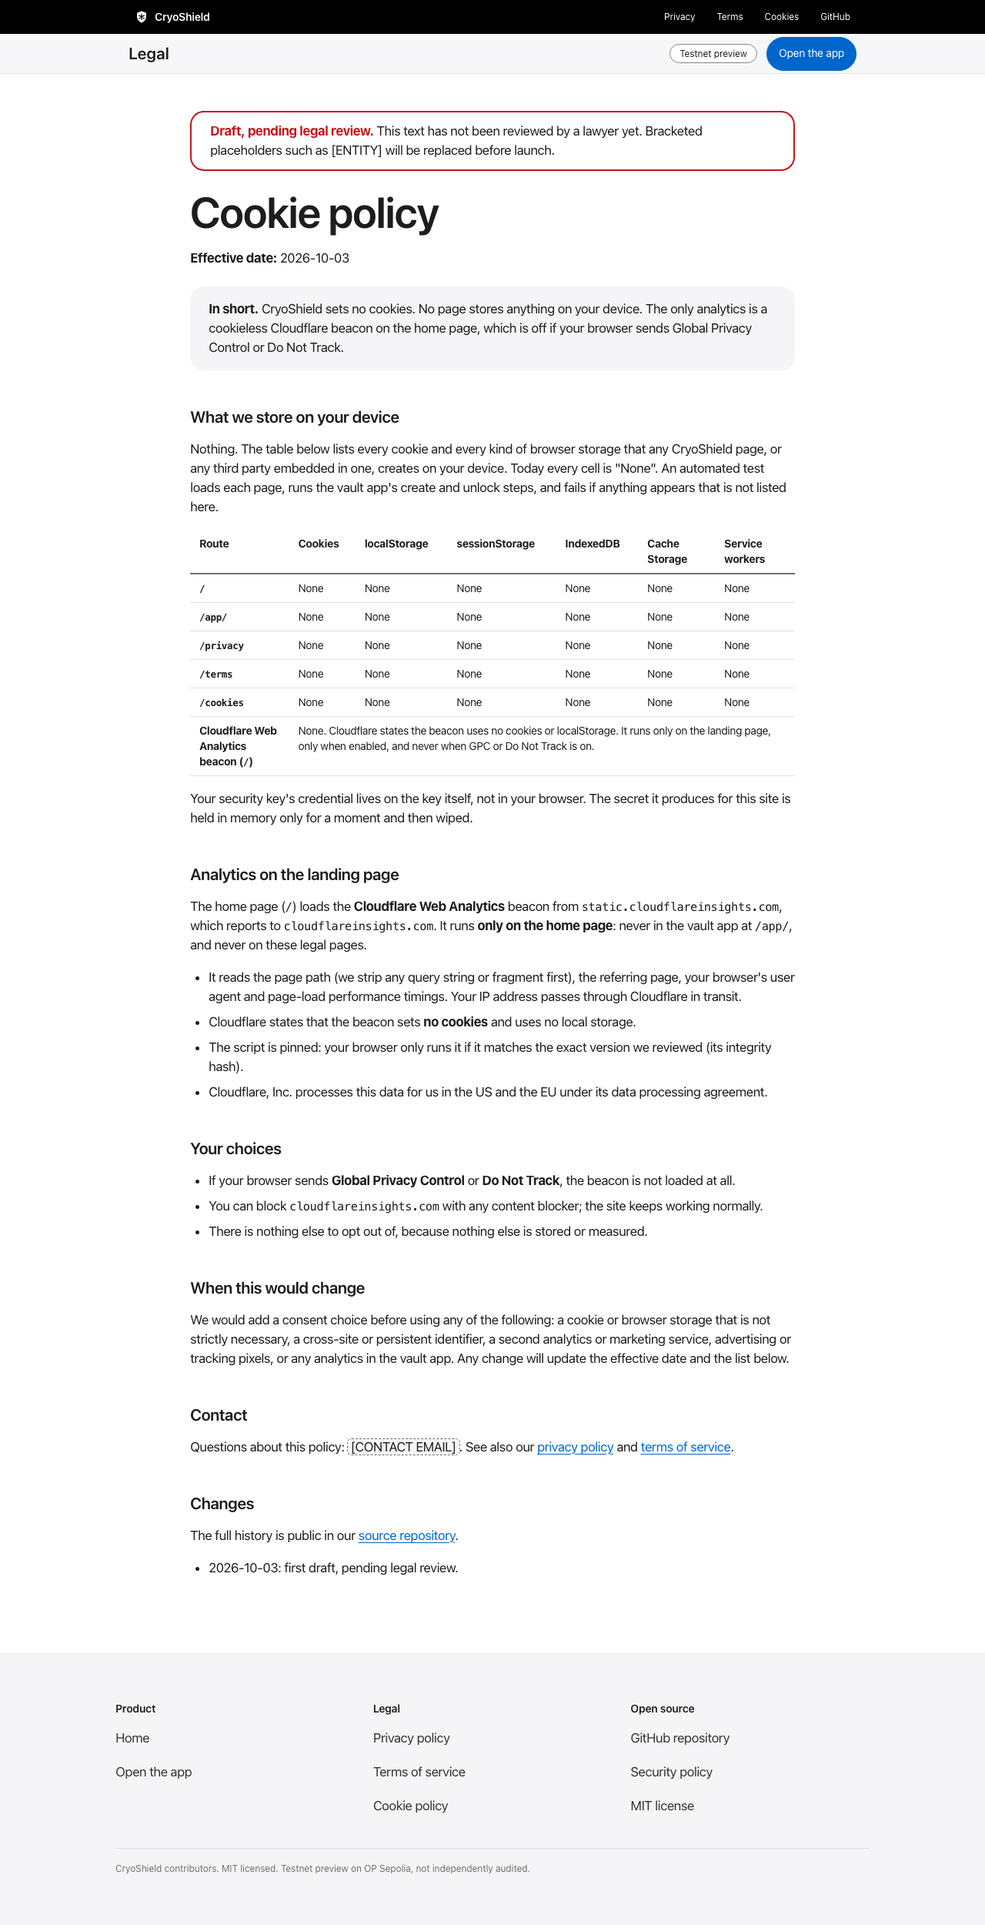
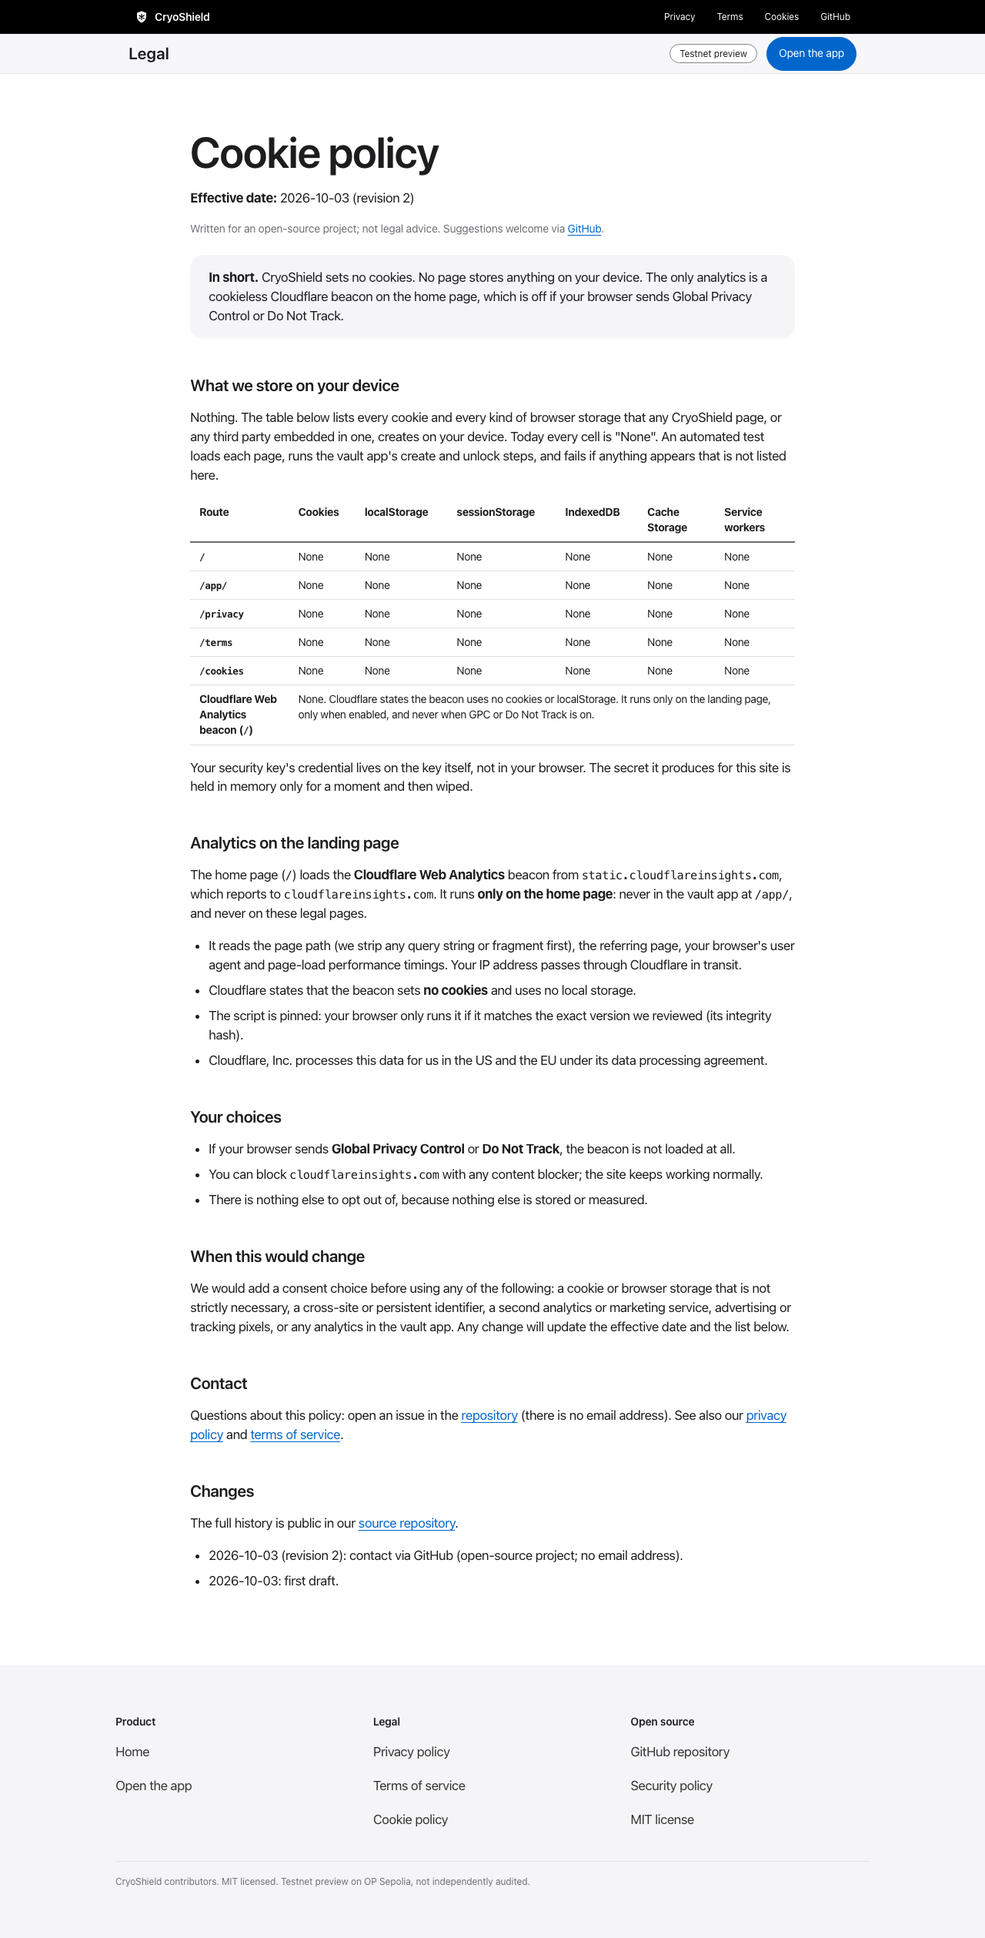
docs(legal): open-source project defaults for the legal pages and security contact
- operator: 'CryoShield, an open-source project maintained by its
  contributors'; the maintainers are controller/Data Fiduciary only for
  the GitHub correspondence they receive; Grievance Officer = the project
  maintainer via a private advisory (24 h / 15 days)
- GitHub-only contact: privacy-request issue form (warns never to post
  secrets) or private advisory; security.txt and SECURITY.md point to
  private vulnerability reporting; every @cryoshield.app address removed
- terms mirror the MIT warranty disclaimer and liability exclusion
- quiet 'not legal advice' note under each effective date replaces the
  draft banner; placeholder styling removed; same-day revision marker
  accepted by the effective-date check
- verify-build fails on any bracketed placeholder or @cryoshield.app
  address in shipped HTML/text; tests updated; screenshots regenerated

diff --git a/apps/web/test/legal/pages.test.ts b/apps/web/test/legal/pages.test.ts
@@ -70,14 +70,49 @@ describe('legal pages', () => {
     for (const s of ['test network', 'not been independently audited', 'nobody', 'cannot be removed', 'paused, limited or withdrawn', '18 or over', 'sanctions', 'MIT license', 'Limitation of liability', 'Governing law']) expect(t, s).toMatch(new RegExp(s, 'i'));
   });
 
-  it('every legal page shows the draft banner first and keeps the placeholders', () => {
+  it('every legal page shows the not-legal-advice note right under the effective date, and no draft banner (adopt-oss 1.2)', () => {
     for (const p of LEGAL) {
       const d = page(p);
-      const art = d.querySelector('main article')!;
-      expect(art.firstElementChild?.classList.contains('draft-banner'), p).toBe(true);
-      expect(art.firstElementChild?.textContent).toMatch(/Draft, pending legal review/);
-      expect(d.querySelectorAll('mark.placeholder').length, p).toBeGreaterThan(0);
+      const date = [...d.querySelectorAll('main article p')].find((x) => /Effective date:/.test(x.textContent ?? ''))!;
+      const note = date.nextElementSibling!;
+      expect(note.classList.contains('legal-note'), p).toBe(true);
+      expect(note.textContent?.replace(/\s+/g, ' ').trim(), p).toBe('Written for an open-source project; not legal advice. Suggestions welcome via GitHub.');
+      const html = readFileSync(join(out, p), 'utf8');
+      expect(html, p).not.toMatch(/Draft, pending legal review|draft-banner|mark class="placeholder"/);
+      expect(html, p).not.toMatch(/\[[A-Z][A-Z ]{2,}\]|@cryoshield\.app/);
     }
+  });
+
+  it('/privacy and /terms name the open-source operator and no company or registered address', () => {
+    for (const p of ['privacy/index.html', 'terms/index.html']) {
+      const d = page(p);
+      const t = d.body.textContent!.replace(/\s+/g, ' ');
+      expect(t, p).toContain('CryoShield, an open-source project maintained by its contributors (github.com/prix0007/cryoshield)');
+      expect(t, p).not.toMatch(/registered address|registered office/i);
+      expect([...d.querySelectorAll('main a')].map((a) => a.getAttribute('href')), p).toContain('https://github.com/prix0007/cryoshield');
+    }
+    expect(page('privacy/index.html').body.textContent!.replace(/\s+/g, ' ')).toMatch(/maintainers act as the data controller .*only for the correspondence/i);
+  });
+
+  it('/privacy routes requests to GitHub (privacy-request issue or private advisory) and names the maintainer as Grievance Officer', () => {
+    const d = page('privacy/index.html');
+    const hrefs = [...d.querySelectorAll('main a')].map((a) => a.getAttribute('href'));
+    expect(hrefs).toContain('https://github.com/prix0007/cryoshield/issues/new?template=privacy-request.yml');
+    expect(hrefs).toContain('https://github.com/prix0007/cryoshield/security/advisories/new');
+    const h = [...d.querySelectorAll('main h2')].find((x) => x.textContent?.trim() === 'Grievance Officer')!;
+    let text = '';
+    for (let n = h.nextElementSibling; n && n.tagName !== 'H2'; n = n.nextElementSibling) text += ' ' + n.textContent;
+    expect(text).toMatch(/the project maintainer/);
+    expect(text).toMatch(/24 hours/);
+    expect(text).toMatch(/15 days/);
+    expect(text).toMatch(/private security advisory/);
+  });
+
+  it('/terms mirrors the MIT licence disclaimer and keeps the honest framing', () => {
+    const t = page('terms/index.html').body.textContent!.replace(/\s+/g, ' ');
+    expect(t).toContain('WITHOUT WARRANTY OF ANY KIND');
+    expect(t).toContain('IN NO EVENT SHALL THE AUTHORS OR COPYRIGHT HOLDERS BE LIABLE');
+    for (const s of ['test network', 'not been independently audited', 'nobody', 'cannot be removed']) expect(t).toMatch(new RegExp(s, 'i'));
   });
 
   it('the landing page and every legal page link to /privacy, /terms and /cookies', () => {

diff --git a/apps/web/test/build/legal-checks.test.ts b/apps/web/test/build/legal-checks.test.ts
@@ -1,20 +1,23 @@
 // @vitest-environment node
-/** add-privacy-and-compliance 3.3 (draft banner vs placeholders) and 3.5 (effective date changes with content). */
+/** adopt-oss-project-defaults 1.1 (no placeholders/mailboxes) and add-privacy-and-compliance 3.5 (effective date). */
 import { execFileSync } from 'node:child_process';
 import { mkdirSync, mkdtempSync, writeFileSync } from 'node:fs';
 import { tmpdir } from 'node:os';
 import { join } from 'node:path';
 import { describe, expect, it } from 'vitest';
-import { checkLegalDraft, unlistedStorageApis } from '../../scripts/legal-check.mjs';
+import { checkNoPlaceholders, unlistedStorageApis } from '../../scripts/legal-check.mjs';
 import { readFileSync } from 'node:fs';
 
-describe('draft banner guard (3.3)', () => {
-  it('fails a page that still has a placeholder but no banner, naming page and token', () => {
-    expect(checkLegalDraft('<main><p>Operated by [ENTITY].</p></main>', 'privacy/index.html')).toEqual(['privacy/index.html: placeholder [ENTITY] without the "Draft, pending legal review" banner']);
+describe('no placeholders or project mailboxes in shipped files (adopt-oss-project-defaults 1.1)', () => {
+  it('fails on any bracketed ALL-CAPS placeholder or @cryoshield.app address, naming file and token', () => {
+    expect(checkNoPlaceholders('<p>Operated by [ENTITY], [REGISTERED ADDRESS].</p>', 'privacy/index.html')).toEqual([
+      'privacy/index.html: placeholder [ENTITY]',
+      'privacy/index.html: placeholder [REGISTERED ADDRESS]',
+    ]);
+    expect(checkNoPlaceholders('Contact: mailto:security@cryoshield.app', '.well-known/security.txt')).toEqual(['.well-known/security.txt: address security@cryoshield.app']);
   });
-  it('passes with the banner, or with no placeholders at all', () => {
-    expect(checkLegalDraft('<p class="draft-banner">Draft, pending legal review.</p><p>[CONTACT EMAIL]</p>', 'x')).toEqual([]);
-    expect(checkLegalDraft('<p>Operated by Example Pvt Ltd.</p>', 'x')).toEqual([]);
+  it('passes normal prose, links and code', () => {
+    expect(checkNoPlaceholders('<p>See [our docs](https://x) and <code>[a]</code>, the 18+ rule, [1] and [Note].</p>', 'x')).toEqual([]);
   });
 });
 
@@ -58,6 +61,12 @@ describe('effective date changes with content (3.5)', () => {
     r.write({ 'privacy.md': doc('2026-11-01', 'new text') });
     expect(run(r.d, r.base).ok).toBe(true);
   });
+  it('accepts a same-day revision marker as a date change (adopt-oss-project-defaults)', () => {
+    const r = repo({ 'privacy.md': doc('2026-10-03', 'old') });
+    r.write({ 'privacy.md': doc('2026-10-03 (revision 2)', 'new text') });
+    expect(run(r.d, r.base).ok).toBe(true);
+  });
+
   it('fails a new or edited page that has no effective date line', () => {
     const r = repo({ 'privacy.md': doc('2026-10-03', 'old') });
     r.write({ 'cookies.md': '# Cookies\n\nNo date.\n' });

diff --git a/apps/web/vite-plugins/legal.ts b/apps/web/vite-plugins/legal.ts
@@ -2,13 +2,14 @@
  * Legal pages (add-privacy-and-compliance D6, task 3.1/3.2): the source text lives in apps/web/legal/*.md (public
  * history); at build time it is rendered into static HTML shells (privacy/, terms/, cookies/). No JS, no third-party
  * resources. A deliberately small Markdown subset, so no new dependency: headings, paragraphs, lists, tables,
- * blockquotes, **bold**, `code`, [links](url). Everything is HTML-escaped; placeholders like [ENTITY] are highlighted.
+ * blockquotes, **bold**, `code`, [links](url). Everything is HTML-escaped.
  */
 import { readFileSync } from 'node:fs';
 import { join } from 'node:path';
 
-export const PLACEHOLDERS = ['[ENTITY]', '[REGISTERED ADDRESS]', '[GRIEVANCE OFFICER]', '[CONTACT EMAIL]'] as const;
-export const DRAFT_BANNER = 'Draft, pending legal review';
+/** adopt-oss-project-defaults D3: shown under each effective date (marker `<!--legal-note-->` in the source). */
+export const LEGAL_NOTE =
+  '<p class="legal-note">Written for an open-source project; not legal advice. Suggestions welcome via <a href="https://github.com/prix0007/cryoshield/issues" rel="noopener noreferrer">GitHub</a>.</p>';
 
 const esc = (s: string) => s.replace(/&/g, '&amp;').replace(/</g, '&lt;').replace(/>/g, '&gt;').replace(/"/g, '&quot;');
 
@@ -25,7 +26,6 @@ function inline(raw: string): string {
         const ext = url.startsWith('https://');
         return `<a href="${esc(url)}"${ext ? ' rel="noopener noreferrer"' : ''}>${text}</a>`;
       });
-      for (const ph of PLACEHOLDERS) s = s.split(esc(ph)).join(`<mark class="placeholder">${esc(ph)}</mark>`);
       s = s.replace(/\*\*([^*]+)\*\*/g, '<strong>$1</strong>');
       return s;
     })
@@ -141,7 +141,7 @@ export function inventoryTable(inv: StorageInventory): string {
 
 export function renderLegalPage(root: string, name: string): string {
   const md = readFileSync(join(root, 'legal', `${name}.md`), 'utf8');
-  let html = renderMarkdown(md);
+  let html = renderMarkdown(md).replace('<!--legal-note-->', LEGAL_NOTE);
   if (html.includes('<!--storage-inventory-->')) {
     const inv = JSON.parse(readFileSync(join(root, 'legal', 'storage-inventory.json'), 'utf8')) as StorageInventory;
     html = html.replace('<!--storage-inventory-->', inventoryTable(inv));

diff --git a/apps/web/test/build/privacy-request-template.test.ts b/apps/web/test/build/privacy-request-template.test.ts
@@ -1,0 +1,35 @@
+// @vitest-environment node
+/** adopt-oss-project-defaults 2.3 (spec project-contact "Privacy request template warns about secrets"). */
+import { readFileSync } from 'node:fs';
+import { join } from 'node:path';
+import { describe, expect, it } from 'vitest';
+
+// Written in YAML's JSON-compatible flow style, so a strict JSON parse validates the structure.
+const form = JSON.parse(readFileSync(join(__dirname, '..', '..', '..', '..', '.github', 'ISSUE_TEMPLATE', 'privacy-request.yml'), 'utf8')) as {
+  name: string;
+  description: string;
+  body: { type: string; id?: string; attributes: Record<string, unknown>; validations?: { required?: boolean } }[];
+};
+
+describe('privacy-request issue form', () => {
+  it('is a GitHub issue form with a name, description and body', () => {
+    expect(form.name).toBe('Privacy request');
+    expect(form.description).toMatch(/PUBLIC/);
+    expect(form.body.length).toBeGreaterThanOrEqual(3);
+  });
+
+  it('opens with a warning never to post secrets, keys, recovery codes or PINs, and points sensitive requests to a private advisory', () => {
+    const first = form.body[0]!;
+    expect(first.type).toBe('markdown');
+    const v = String(first.attributes.value);
+    for (const w of ['Never post', 'seed phrases', 'recovery codes', 'private keys', 'PINs', 'public']) expect(v).toContain(w);
+    expect(v).toContain('https://github.com/prix0007/cryoshield/security/advisories/new');
+    expect(v).not.toMatch(/@cryoshield\.app|mailto:/);
+  });
+
+  it('requires the reporter to confirm they posted no secrets', () => {
+    const c = form.body.find((b) => b.type === 'checkboxes')!;
+    const opts = c.attributes.options as { label: string; required: boolean }[];
+    expect(opts.some((o) => o.required && /not posted any secret/.test(o.label))).toBe(true);
+  });
+});

diff --git a/apps/web/test/build/security-txt.test.ts b/apps/web/test/build/security-txt.test.ts
@@ -8,7 +8,7 @@ import { checkSecurityTxt } from '../../scripts/securitytxt-check.mjs';
 const NOW = new Date('2026-10-03T00:00:00Z');
 const txt = (expires: string) =>
   [
-    'Contact: mailto:security@cryoshield.app',
+    'Contact: https://github.com/prix0007/cryoshield/security/advisories/new',
     `Expires: ${expires}`,
     'Policy: https://github.com/prix0007/cryoshield/blob/main/SECURITY.md',
     'Canonical: https://cryoshield.app/.well-known/security.txt',
@@ -31,5 +31,8 @@ describe('security.txt guard', () => {
     const shipped = readFileSync(join(__dirname, '..', '..', 'public', '.well-known', 'security.txt'), 'utf8');
     expect(checkSecurityTxt(shipped, new Date())).toEqual([]);
     expect(shipped).toContain('Canonical: https://cryoshield.app/.well-known/security.txt');
+    // adopt-oss-project-defaults: GitHub private vulnerability reporting is the only contact; no mailbox exists.
+    expect(shipped.split('\n').filter((l) => l.startsWith('Contact:'))).toEqual(['Contact: https://github.com/prix0007/cryoshield/security/advisories/new']);
+    expect(shipped).not.toMatch(/mailto:|@cryoshield\.app/);
   });
 });

diff --git a/apps/web/deploy/test/container.test.ts b/apps/web/deploy/test/container.test.ts
@@ -170,7 +170,8 @@ describe('served by the container', () => {
     const app = await get('/app/');
     const r = await get(p);
     expect(r.status).toBe(200);
-    expect(r.body).toContain('Draft, pending legal review');
+    expect(r.body).toContain('Written for an open-source project; not legal advice.');
+    expect(r.body).not.toMatch(/Draft, pending legal review|@cryoshield\.app/);
     expect(r.body).not.toMatch(/<script/i);
     expect(r.headers['content-security-policy']).toBe(`${metaCsp(r.body)}; frame-ancestors 'none'`);
     expect(r.headers['content-security-policy']).toBe(app.headers['content-security-policy']);
@@ -188,6 +189,8 @@ describe('served by the container', () => {
     expect(r.status).toBe(200);
     expect(r.headers['content-type']).toBe('text/plain; charset=utf-8');
     expect(r.body).toContain('Canonical: https://cryoshield.app/.well-known/security.txt');
+    expect(r.body).toContain('Contact: https://github.com/prix0007/cryoshield/security/advisories/new');
+    expect(r.body).not.toMatch(/mailto:/);
     expect(r.headers['x-frame-options']).toBe('DENY');
   });
 

diff --git a/apps/web/src/legal/legal.css b/apps/web/src/legal/legal.css
@@ -45,23 +45,11 @@
   font-family: var(--font-mono);
   font-size: 0.9em;
 }
-.draft-banner {
-  margin: 0;
-  padding: var(--space-sm) var(--space-lg);
-  border: 2px solid var(--error-ink);
-  border-radius: var(--radius-lg);
-  background: var(--canvas);
-  color: var(--ink);
-}
-.draft-banner strong {
-  color: var(--error-ink);
-}
-mark.placeholder {
-  background: var(--canvas-parchment);
-  color: var(--ink);
-  outline: 1px dashed var(--ink-muted-48);
-  padding: 0 var(--space-xxs);
-  border-radius: var(--radius-xs);
+.legal-note {
+  margin: 0 0 var(--space-lg);
+  font-size: var(--caption-size);
+  letter-spacing: -0.224px;
+  color: var(--ink-muted-48);
 }
 .summary-box {
   margin: var(--space-lg) 0;

diff --git a/apps/web/e2e/specs/08-legal.spec.ts b/apps/web/e2e/specs/08-legal.spec.ts
@@ -31,7 +31,8 @@ test('the legal pages make only same-origin requests and pass axe', async ({ pag
   page.on('request', (r) => requests.push(r.url()));
   for (const p of LEGAL) {
     await page.goto(p);
-    await expect(page.locator('.draft-banner')).toBeVisible();
+    await expect(page.locator('.legal-note')).toBeVisible();
+    await expect(page.locator('.draft-banner')).toHaveCount(0);
     await expect(page.locator('main h1')).toBeVisible();
     const r = await new AxeBuilder({ page }).withTags(['wcag2a', 'wcag2aa', 'wcag21a', 'wcag21aa', 'wcag22aa']).analyze();
     expect(r.violations.map((v) => `${p}: ${v.id}`)).toEqual([]);

diff --git a/apps/web/cookies/index.html b/apps/web/cookies/index.html
@@ -12,7 +12,6 @@
     <!--partial:header-->
     <main id="main" tabindex="-1">
       <article class="legal-doc">
-        <p class="draft-banner" role="note"><strong>Draft, pending legal review.</strong> This text has not been reviewed by a lawyer yet. Bracketed placeholders such as [ENTITY] will be replaced before launch.</p>
         <!--legal:cookies-->
       </article>
     </main>

diff --git a/apps/web/privacy/index.html b/apps/web/privacy/index.html
@@ -12,7 +12,6 @@
     <!--partial:header-->
     <main id="main" tabindex="-1">
       <article class="legal-doc">
-        <p class="draft-banner" role="note"><strong>Draft, pending legal review.</strong> This text has not been reviewed by a lawyer yet. Bracketed placeholders such as [ENTITY] will be replaced before launch.</p>
         <!--legal:privacy-->
       </article>
     </main>

diff --git a/apps/web/terms/index.html b/apps/web/terms/index.html
@@ -12,7 +12,6 @@
     <!--partial:header-->
     <main id="main" tabindex="-1">
       <article class="legal-doc">
-        <p class="draft-banner" role="note"><strong>Draft, pending legal review.</strong> This text has not been reviewed by a lawyer yet. Bracketed placeholders such as [ENTITY] will be replaced before launch.</p>
         <!--legal:terms-->
       </article>
     </main>

diff --git a/apps/web/legal/privacy.md b/apps/web/legal/privacy.md
@@ -1,6 +1,8 @@
 # Privacy policy
 
-**Effective date:** 2026-10-03
+**Effective date:** 2026-10-03 (revision 2)
+
+<!--legal-note-->
 
 > **In short.** CryoShield never sees your secrets, your keys or anything that could open your vault. We set no
 > cookies and keep no accounts. When you save a vault, its locked (encrypted) form is published permanently on a
@@ -10,10 +12,17 @@
 
 ## Who we are
 
-CryoShield is operated by [ENTITY], [REGISTERED ADDRESS]. For the data described here we are the "data controller"
-under the EU and UK GDPR and the "Data Fiduciary" under India's Digital Personal Data Protection Act, 2023 (DPDP).
+This website is run by CryoShield, an open-source project maintained by its contributors (github.com/prix0007/cryoshield). There is no company behind it: the source code, its
+history and every decision are public in the [repository](https://github.com/prix0007/cryoshield).
 
-Contact: [CONTACT EMAIL]. We have not appointed an EU or UK representative yet; this page will name them if we do.
+The site itself collects and keeps no personal data (no accounts, no cookies, no server logs of our own). For the
+little personal data that exists, the messages you send us through GitHub, the project maintainers act as the data
+controller under the EU and UK GDPR and as the Data Fiduciary under India's Digital Personal Data Protection Act, 2023
+(DPDP), only for the correspondence they receive.
+
+**How to reach us:** open a [privacy request](https://github.com/prix0007/cryoshield/issues/new?template=privacy-request.yml) on GitHub, or, for
+anything sensitive, a [private security advisory](https://github.com/prix0007/cryoshield/security/advisories/new), which only the maintainers can see.
+There is no email address.
 
 ## What we never see
 
@@ -98,8 +107,9 @@ More detail is in the [cookie policy](/cookies).
 
 ## Retention
 
-We hold no visitor data ourselves, except correspondence you send us, which we keep for 3 years after the matter is
-closed. Each service above keeps its logs under its own policy. Data published on the blockchain and Arweave is
+We hold no visitor data ourselves. The GitHub issues and advisories you open stay on GitHub: we delete or redact
+personal data in them on request, and close private advisories once handled (keeping them at most 3 years after
+closure). Each service above keeps its logs under its own policy. Data published on the blockchain and Arweave is
 permanent. The full table is in our
 [retention statement](https://github.com/prix0007/cryoshield/blob/main/docs/compliance/retention.md).
 
@@ -118,19 +128,22 @@ delete data published on the blockchain or Arweave** (see crypto-shredding above
   California Consumer Privacy Act (CCPA/CPRA) or similar state laws. If that changes, we will honour Global Privacy
   Control as an opt-out of sale or sharing, as we already do for analytics.
 
-To make a request, write to [CONTACT EMAIL]. We will never ask for your secrets, your keys or your PIN, and we cannot
-act on a vault: anyone who claims otherwise is not us.
+To make a request, open a [privacy request](https://github.com/prix0007/cryoshield/issues/new?template=privacy-request.yml) on GitHub. Issues
+are public: for anything sensitive, use a [private security advisory](https://github.com/prix0007/cryoshield/security/advisories/new) instead. If you
+post personal data in a public issue by mistake, tell us and we will delete or redact it. We will never ask for your
+secrets, your keys or your PIN, and we cannot act on a vault: anyone who claims otherwise is not us.
 
 ## Grievance Officer
 
-[GRIEVANCE OFFICER], [ENTITY], [REGISTERED ADDRESS], [CONTACT EMAIL].
+The Grievance Officer is **the project maintainer**, reachable through a
+[private security advisory](https://github.com/prix0007/cryoshield/security/advisories/new) (mark it as a privacy grievance).
 
 We acknowledge grievances within 24 hours and resolve them within 15 days. If you are not satisfied, you can escalate
-to the Data Protection Board of India.
+to the Data Protection Board of India, or complain to your data protection authority.
 
 ## International transfers
 
-Your data is handled in India (our company), Singapore and the US (hosting), the UK (fee sponsor), the US (archive
+Your data is handled by the maintainers (via GitHub), in Singapore and the US (hosting), the UK (fee sponsor), the US (archive
 upload, analytics) and the EU (analytics). We rely on the safeguards each provider offers, such as the EU-US Data
 Privacy Framework, standard contractual clauses and the UK adequacy decision.
 
@@ -151,4 +164,6 @@ Your vault is encrypted on your device with AES-256-GCM, using keys derived from
 We will update the effective date at the top whenever this policy changes, and record each change below. The full
 history is public in our [source repository](https://github.com/prix0007/cryoshield/commits/main/apps/web/legal/privacy.md).
 
-- 2026-10-03: first draft, pending legal review.
+- 2026-10-03 (revision 2): CryoShield is an open-source project: operator, contact (GitHub only, no email) and
+  Grievance Officer (the project maintainer) filled in.
+- 2026-10-03: first draft.
